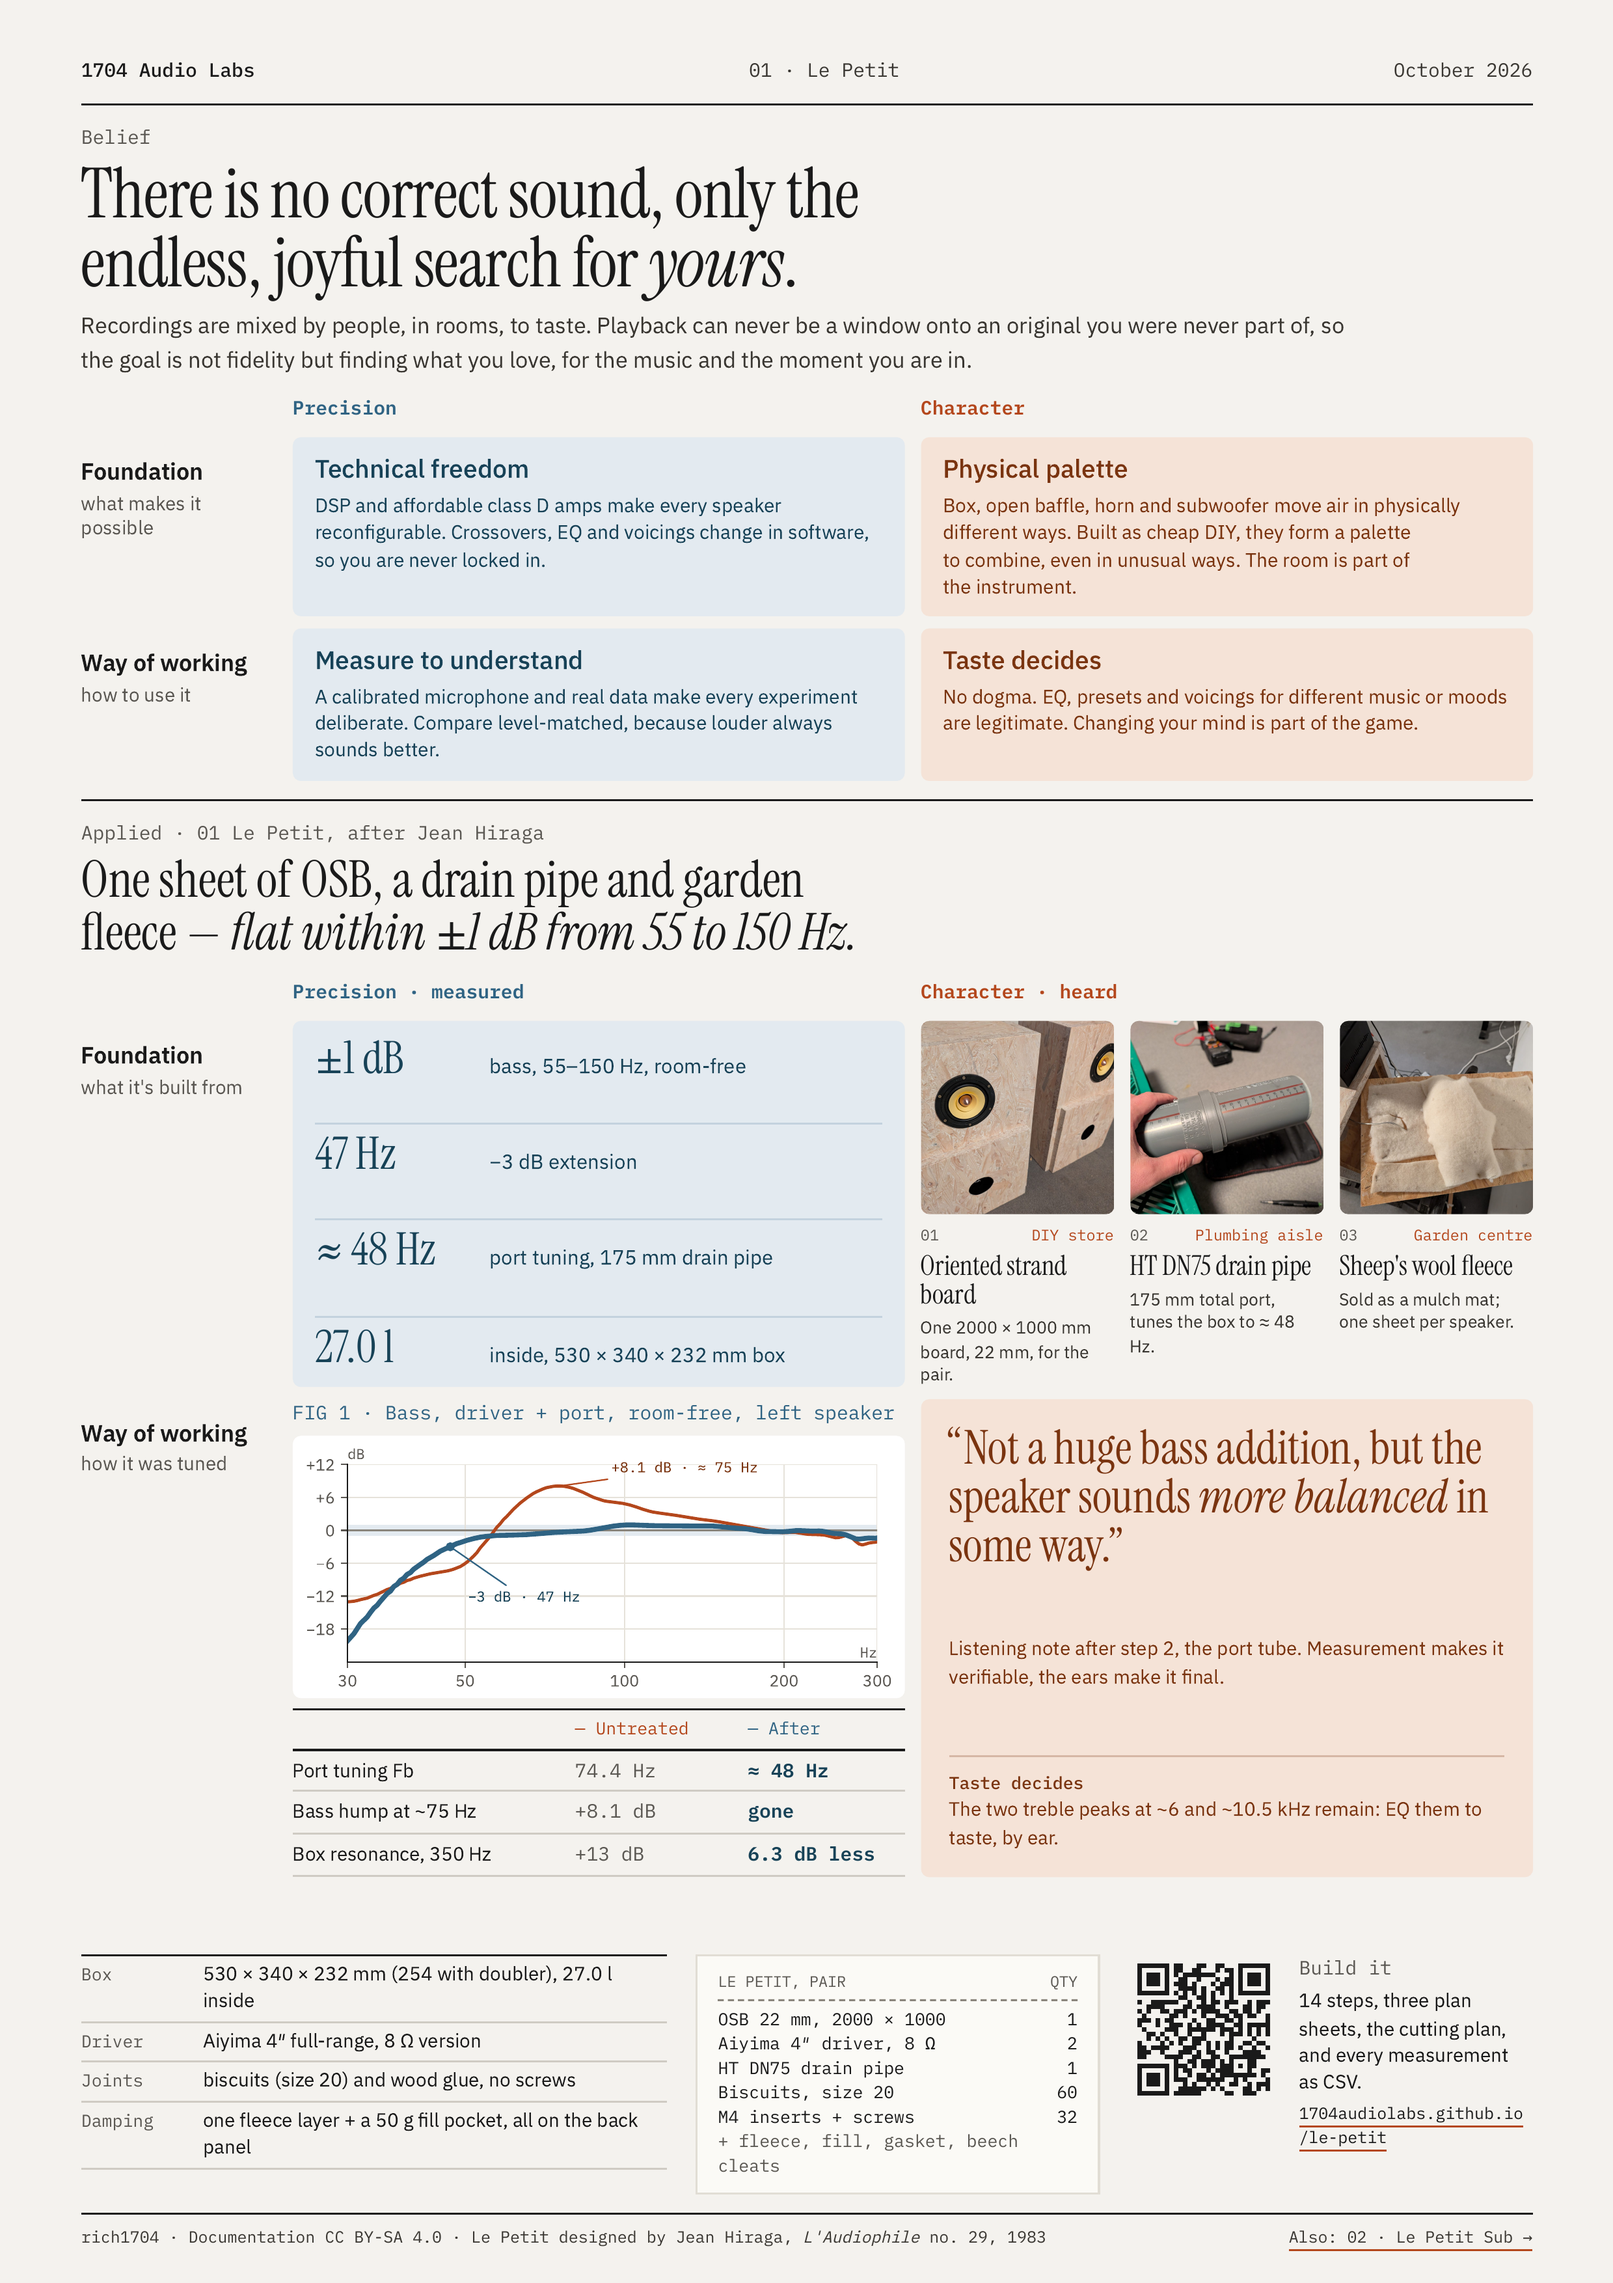
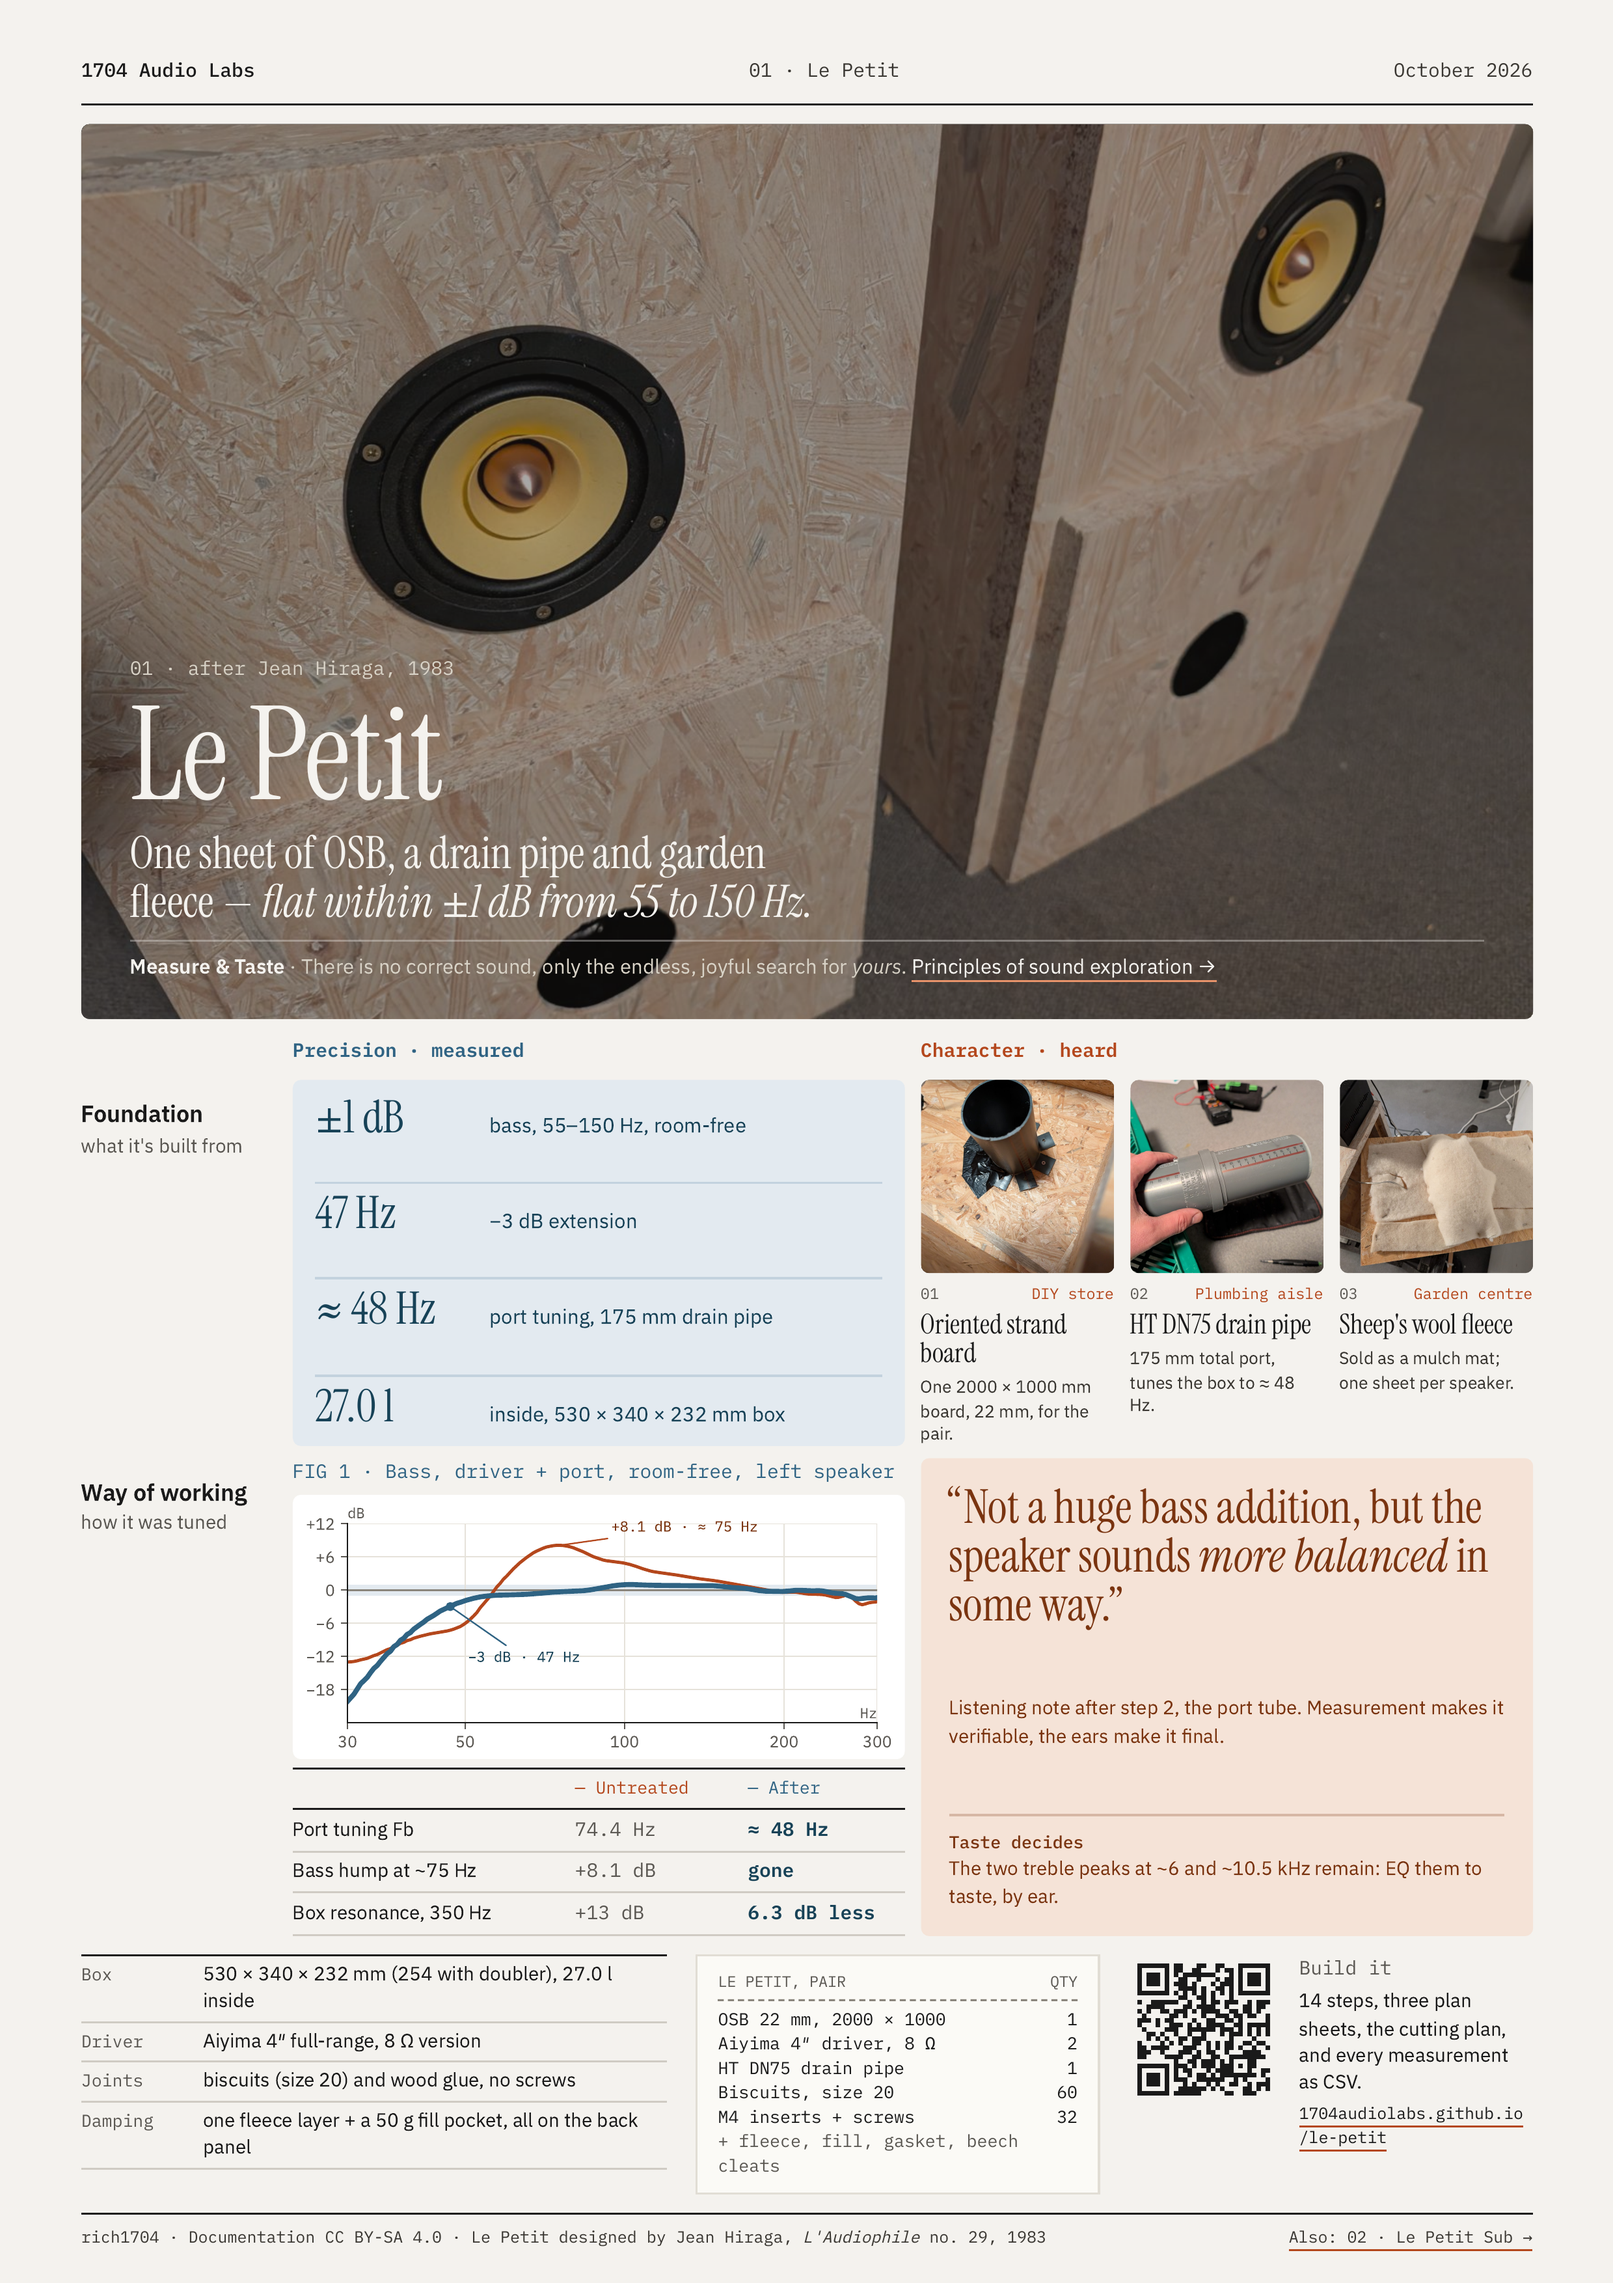
One-sheet: the project's cover band with name, finding, claim and the link to the principles; no generic headline, no principles grid

diff --git a/docs/assets/one-sheet.css b/docs/assets/one-sheet.css
@@ -6,6 +6,7 @@
   --graphite: #3A3732; --reference: #8A857C; --ink: #1A1A1A; --walnut: #1E1C19; --on-dark: #F4F2EE;
   --precision: #2F6383; --precision-deep: #174257; --precision-tint: #E3EAF0;
   --character: #B4471C; --character-deep: #7A3410; --character-tint: #F5E3D7;
+  --on-dark-muted: #D8D2C6; --character-on-dark: #E8936A;
   --display: "Instrument Serif", Georgia, serif; --text: "IBM Plex Sans", system-ui, sans-serif;
   --mono: "IBM Plex Mono", ui-monospace, monospace;
 }
@@ -36,13 +37,27 @@ a:hover { color: var(--character); }
   font-size: calc(9.5 * var(--u)); color: var(--graphite); }
 .mast .wordmark { font-weight: 500; color: var(--ink); }
 
-/* belief */
-.belief { display: flex; flex-direction: column; gap: calc(5 * var(--u)); }
-.belief__title { font-family: var(--display); font-weight: 400; font-size: calc(34 * var(--u)); line-height: 1;
-  letter-spacing: -.01em; max-width: calc(660 * var(--u)); text-wrap: balance; }
-.belief__text { font-size: calc(11 * var(--u)); line-height: 1.5; color: var(--graphite); max-width: calc(640 * var(--u)); text-wrap: pretty; }
+/* cover band: photo + the project's name and finding, the claim and the link to the principles on the hub.
+   It takes up the height the project and the footer leave, like the website's cover. */
+.cover { position: relative; flex: 1 1 auto; min-height: calc(300 * var(--u)); border-radius: 4px; overflow: hidden;
+  background: var(--walnut); color: var(--on-dark); display: flex; flex-direction: column; justify-content: flex-end; }
+.cover img { position: absolute; inset: 0; width: 100%; height: 100%; object-fit: cover; opacity: .62; }
+.cover::before { content: ""; position: absolute; inset: 0; background: linear-gradient(180deg, rgba(30,28,25,.35) 0%,
+  rgba(30,28,25,0) 28%, rgba(30,28,25,.25) 50%, rgba(30,28,25,.92) 100%); }
+.cover__body { position: relative; display: flex; flex-direction: column; gap: calc(6 * var(--u));
+  padding: calc(20 * var(--u)) calc(24 * var(--u)) calc(18 * var(--u)); }
+.cover__kicker { font-family: var(--mono); font-size: calc(9.5 * var(--u)); color: var(--on-dark-muted); }
+.cover__name { font-family: var(--display); font-weight: 400; font-size: calc(64 * var(--u)); line-height: .95;
+  letter-spacing: -.01em; }
+.cover__finding { font-family: var(--display); font-size: calc(22 * var(--u)); line-height: 1.08; max-width: calc(600 * var(--u));
+  text-wrap: balance; }
+.cover__claim { font-size: calc(10 * var(--u)); line-height: 1.45; color: var(--on-dark-muted); padding-top: calc(6 * var(--u));
+  border-top: 1px solid rgba(244,242,238,.35); }
+.cover__claim b { font-weight: 600; color: var(--on-dark); }
+.cover__claim a { color: var(--on-dark); text-decoration-color: var(--character-on-dark); white-space: nowrap; }
+.cover__claim a:hover { color: var(--character-on-dark); }
 
-/* the 2 x 2 grids: principles above, the project below, same columns */
+/* the project's 2 x 2 grid: the principles' columns and rows, filled with evidence */
 .grid { display: grid; grid-template-columns: calc(96 * var(--u)) minmax(0, 1fr) minmax(0, 1fr);
   gap: calc(6 * var(--u)) calc(8 * var(--u)); }
 .col { font-family: var(--mono); font-size: calc(9.5 * var(--u)); font-weight: 600; padding: 0 0 calc(1 * var(--u)); }
@@ -54,14 +69,6 @@ a:hover { color: var(--character); }
   gap: calc(4 * var(--u)); min-width: 0; }
 .tint-p { background: var(--precision-tint); color: var(--precision-deep); }
 .tint-c { background: var(--character-tint); color: var(--character-deep); }
-.principles .cell b { font-weight: 500; font-size: calc(12.5 * var(--u)); line-height: 1.2; }
-.principles .cell span { font-size: calc(9.6 * var(--u)); line-height: 1.38; text-wrap: pretty; }
-
-/* the turn to the project */
-.turn { display: flex; flex-direction: column; gap: calc(4 * var(--u)); padding-top: calc(9 * var(--u));
-  border-top: 1px solid var(--ink); }
-.turn__title { font-family: var(--display); font-weight: 400; font-size: calc(25 * var(--u)); line-height: 1.04;
-  text-wrap: balance; max-width: calc(714 * var(--u)); }
 
 /* key figures */
 .figures { gap: calc(6 * var(--u)); justify-content: space-between; }
@@ -75,6 +82,7 @@ a:hover { color: var(--character); }
 .plates { display: grid; grid-template-columns: repeat(3, minmax(0, 1fr)); gap: calc(8 * var(--u)); padding: 0; }
 .plate { margin: 0; display: flex; flex-direction: column; gap: calc(3 * var(--u)); min-width: 0; }
 .plate img { width: 100%; aspect-ratio: 1; object-fit: cover; border-radius: 4px; display: block; background: var(--walnut); }
+.plate img.crop-floor { object-position: 50% 92%; }
 .plate__meta { display: flex; justify-content: space-between; gap: calc(4 * var(--u)); font-family: var(--mono);
   font-size: calc(7.5 * var(--u)); white-space: nowrap; color: var(--pencil); padding-top: calc(2 * var(--u)); }
 .plate__meta span:last-child { color: var(--character); text-align: right; }
@@ -131,7 +139,10 @@ a:hover { color: var(--character); }
 @media (max-width: 700px) {
   .wrap { width: 100%; margin: 12px 0 32px; }
   .sheet { --u: 1.3px; width: 100%; aspect-ratio: auto; overflow: visible; padding: 24px 16px; gap: 22px; }
-  .belief__title { font-size: 40px; }
+  .cover { min-height: 420px; }
+  .cover__name { font-size: 48px; }
+  .cover__finding { font-size: 22px; }
+  .cover__claim { font-size: 13px; }
   .grid { grid-template-columns: minmax(0, 1fr) minmax(0, 1fr); }
   .grid > span:first-child { display: none; }
   .row { grid-column: 1 / -1; padding-top: 8px; }

diff --git a/docs/one-sheet.md b/docs/one-sheet.md
@@ -1,28 +1,19 @@
 ---
 template: one-sheet.html
 title: Le Petit on one page
-description: The belief behind the project, and Le Petit on one A4 page — flat within ±1 dB from 55 to 150 Hz, from one sheet of OSB, a drain pipe and garden fleece.
+description: Le Petit on one A4 page — flat within ±1 dB from 55 to 150 Hz, from one sheet of OSB, a drain pipe and garden fleece.
 sheet_label: One-sheet — Le Petit
 ---
 
 <header class="mast"><span class="wordmark">1704 Audio Labs</span><span>01 · Le Petit</span><span>October 2026</span></header>
-<section class="belief" aria-label="Belief">
-<span class="lab">Belief</span>
-<h1 class="belief__title">There is no correct sound, only the endless, joyful search for <i>yours</i>.</h1>
-<p class="belief__text">Recordings are mixed by people, in rooms, to taste. Playback can never be a window onto an original you were never part of, so the goal is not fidelity but finding what you love, for the music and the moment you are in.</p>
-</section>
-<section class="grid principles" aria-label="Principles of sound exploration">
-<span></span><span class="col col--p">Precision</span><span class="col col--c">Character</span>
-<div class="row"><b>Foundation</b><span>what makes it possible</span></div>
-<div class="cell tint-p"><b>Technical freedom</b><span>DSP and affordable class D amps make every speaker reconfigurable. Crossovers, EQ and voicings change in software, so you are never locked in.</span></div>
-<div class="cell tint-c"><b>Physical palette</b><span>Box, open baffle, horn and subwoofer move air in physically different ways. Built as cheap DIY, they form a palette to combine, even in unusual ways. The room is part of the instrument.</span></div>
-<div class="row"><b>Way of working</b><span>how to use it</span></div>
-<div class="cell tint-p"><b>Measure to understand</b><span>A calibrated microphone and real data make every experiment deliberate. Compare level-matched, because louder always sounds better.</span></div>
-<div class="cell tint-c"><b>Taste decides</b><span>No dogma. EQ, presets and voicings for different music or moods are legitimate. Changing your mind is part of the game.</span></div>
-</section>
-<section class="turn" aria-label="Applied">
-<span class="lab">Applied · 01 Le Petit, after Jean Hiraga</span>
-<h2 class="turn__title">One sheet of OSB, a drain pipe and garden fleece — <i>flat within ±1 dB from 55 to 150 Hz.</i></h2>
+<section class="cover" aria-label="Le Petit">
+<img src="../assets/photos/pair-front.jpg" alt="The finished Le Petit pair in OSB">
+<div class="cover__body">
+<span class="cover__kicker">01 · after Jean Hiraga, 1983</span>
+<h1 class="cover__name">Le Petit</h1>
+<p class="cover__finding">One sheet of OSB, a drain pipe and garden fleece — <i>flat within ±1 dB from 55 to 150 Hz.</i></p>
+<p class="cover__claim"><b>Measure &amp; Taste</b> · There is no correct sound, only the endless, joyful search for <i>yours</i>. <a href="https://1704audiolabs.github.io/">Principles of sound exploration →</a></p>
+</div>
 </section>
 <section class="grid applied" aria-label="Le Petit, measured and heard">
 <span></span><span class="col col--p">Precision · measured</span><span class="col col--c">Character · heard</span>
@@ -34,7 +25,7 @@ sheet_label: One-sheet — Le Petit
 <p><strong>27.0 l</strong><span>inside, 530 × 340 × 232 mm box</span></p>
 </div>
 <div class="cell plates">
-<figure class="plate"><img src="../assets/photos/pair-front.jpg" alt="The finished pair in oriented strand board"><span class="plate__meta"><span>01</span><span>DIY store</span></span><span class="plate__title">Oriented strand board</span><span class="plate__text">One 2000 × 1000 mm board, 22 mm, for the pair.</span></figure>
+<figure class="plate"><img class="crop-floor" src="../assets/photos/tube-mounted-inside.jpg" alt="Oriented strand board: the inside of the box"><span class="plate__meta"><span>01</span><span>DIY store</span></span><span class="plate__title">Oriented strand board</span><span class="plate__text">One 2000 × 1000 mm board, 22 mm, for the pair.</span></figure>
 <figure class="plate"><img src="../assets/photos/ht-dn75-pipe.jpg" alt="The HT DN75 drain pipe used as the port tube"><span class="plate__meta"><span>02</span><span>Plumbing aisle</span></span><span class="plate__title">HT DN75 drain pipe</span><span class="plate__text">175 mm total port, tunes the box to ≈ 48 Hz.</span></figure>
 <figure class="plate"><img src="../assets/photos/damping-L-09-pocket-50g.jpg" alt="Sheep's wool garden fleece and the fill pocket on the back panel"><span class="plate__meta"><span>03</span><span>Garden centre</span></span><span class="plate__title">Sheep's wool fleece</span><span class="plate__text">Sold as a mulch mat; one sheet per speaker.</span></figure>
 </div>

diff --git a/README.md b/README.md
@@ -6,7 +6,7 @@ tuned by measurement, one change at a time.**
 Also readable as a website: **https://1704audiolabs.github.io/le-petit/** · the whole project on one page: **[one-sheet](https://1704audiolabs.github.io/le-petit/one-sheet/)** ·
 part of **[1704 Audio Labs](https://1704audiolabs.github.io/)** — Measure & Taste
 
-<a href="https://1704audiolabs.github.io/le-petit/one-sheet/"><img src="docs/assets/one-sheet.png" alt="The one-sheet: belief, principles and Le Petit on one A4 page" width="300"></a>
+<a href="https://1704audiolabs.github.io/le-petit/one-sheet/"><img src="docs/assets/one-sheet.png" alt="The one-sheet: Le Petit on one A4 page" width="300"></a>
 
 ![The finished pair: OSB boxes with the Aiyima 4″ driver and the doubler-mounted port](docs/assets/photos/pair-front.jpg)
 

diff --git a/docs/index.md b/docs/index.md
@@ -21,11 +21,11 @@ All files, drawings and data: **https://github.com/1704audiolabs/le-petit** ·
 part of **[1704 Audio Labs](https://1704audiolabs.github.io/)** — Measure & Taste
 
 <div class="oab-onesheet" markdown>
-[![The one-sheet: belief, principles and Le Petit on one A4 page](assets/one-sheet.png)](one-sheet.md)
+[![The one-sheet: Le Petit on one A4 page](assets/one-sheet.png)](one-sheet.md)
 <div markdown>
 <span class="oab-label">One-sheet · A4</span>
 
-**The whole project on one page** — the belief behind it, what was measured and what was heard.
+**The whole project on one page** — what was measured, what was heard and how to build it.
 [Open the one-sheet →](one-sheet.md)
 </div>
 </div>
